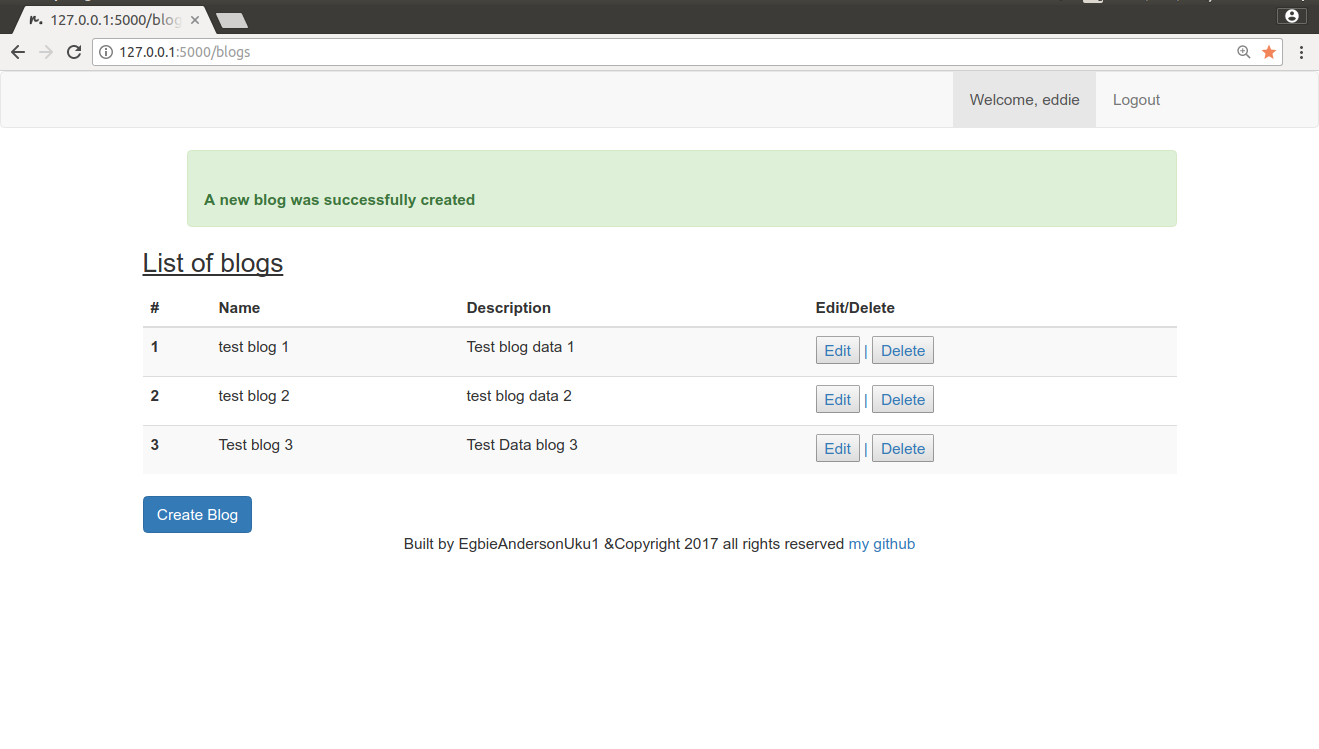
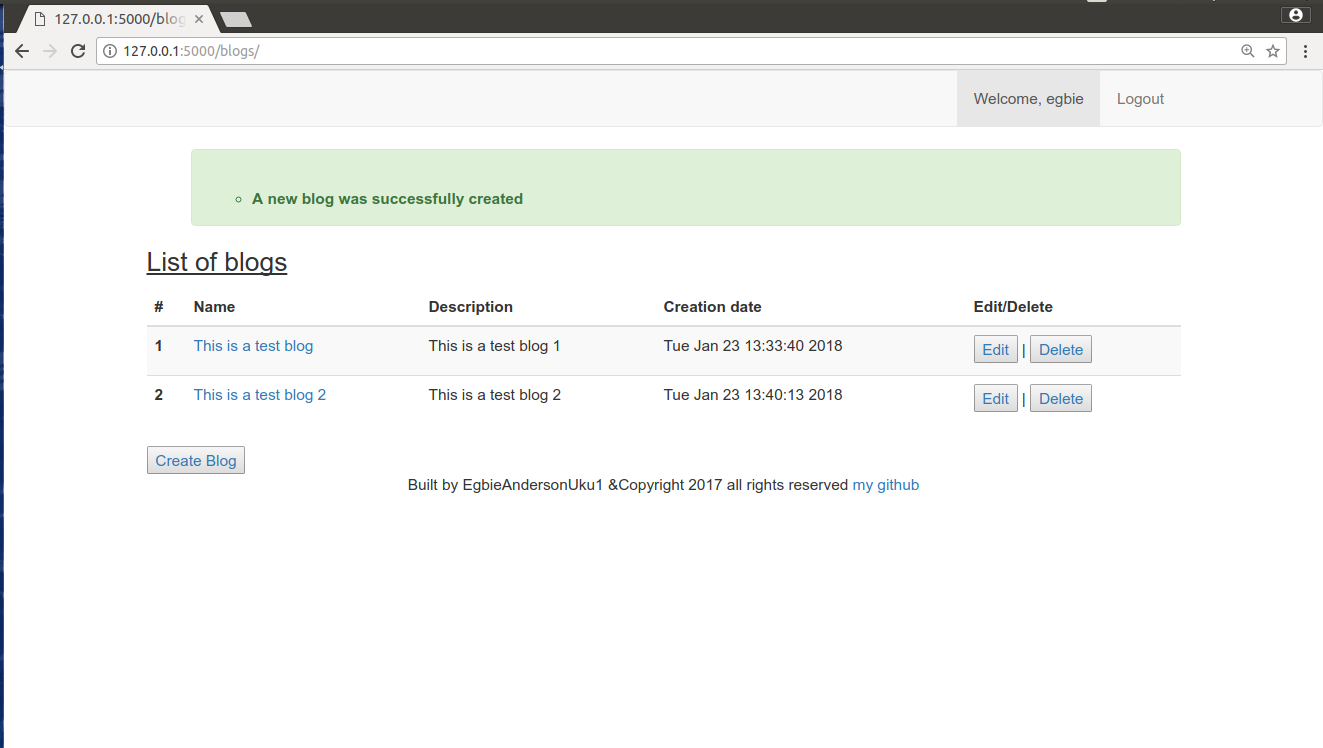
Refactored the form.py in registration and the views.py in the registration directory

diff --git a/src/templates/blogs/blogs.html b/src/templates/blogs/blogs.html
@@ -25,6 +25,7 @@
                     <th>#</th>
                     <th>Name</th>
                     <th>Description</th>
+                    <th>Creation date</th>
                     <th>Edit/Delete</th>
                 </tr>
                 </thead>
@@ -36,6 +37,7 @@
                     <th scope="row">{{ loop.index }}</th>
                     <td><a href="{{ url_for('blogs_app.my_blog', blog_id=blog.child_blog_id) }}">{{ blog.title | truncate(20) }}</a></td>
                     <td>{{ blog.description  | truncate(60) | safe }} </td>
+                    <td>{{ blog.date_created.strftime('%c') }} </td>
                     <td>
 
                         <a href="{{ url_for('blogs_app.blog_edit', blog_id=blog.child_blog_id) }}"><button>Edit</button></a>

diff --git a/src/templates/posts/posts.html b/src/templates/posts/posts.html
@@ -23,6 +23,7 @@
                     <th>Post Name</th>
                     <th>Description</th>
                     <th>Author</th>
+                    <th>Published date</th>
                     <th>Edit/Delete</th>
                 </tr>
                 </thead>
@@ -35,6 +36,7 @@
                     <td>{{ post.title | truncate(20) }}</td>
                     <td>{{ post.post |truncate(30) | safe }}</td>
                     <td>{{ post.author.title() | truncate(10) }}</td>
+                    <td>{{ post.publish_date.strftime('%c') }}</td>
                     <td>
 
                         <a href="#">

diff --git a/src/users/blogs/models.py b/src/users/blogs/models.py
@@ -2,6 +2,7 @@ from users.utils.generator.id_generator import gen_id
 from users.posts.models import Post
 from users.drafts.model import Draft
 from users.records.record import Record
+from users.utils.generator.date_generator import time_now
 
 
 class ParentBlog(object):
@@ -26,13 +27,15 @@ class ParentBlog(object):
             Returns a blog object
         """
         child_blog_id = gen_id()
-        blog_data = self._to_json(blog_form, child_blog_id)
+        date_created = time_now()
+        blog_data = self._to_json(blog_form, child_blog_id, date_created)
 
         if not Record.save(blog_data):
            raise Exception('Error, The blog data was not saved on the database.')
+
         return _ChildBlog(self._user_id, self._blog_id, child_blog_id, self._post_id,
                           blog_form.title, blog_form.description, _id=None,
-                          blog_live=True)
+                          blog_live=True, date_created=date_created)
 
     def find_child_blog(self, child_blog_id):
         """Takes a child blog id and if found returns that blog as an object"""
@@ -57,7 +60,7 @@ class ParentBlog(object):
         """"""
         Record.Update.update(field_name='child_blog_id', field_id=blog_id, data=data)
 
-    def _to_json(self, blog_form, child_blog_id):
+    def _to_json(self, blog_form, child_blog_id, date_created):
         """"""
         return {
             "user_id": self._user_id,
@@ -66,7 +69,8 @@ class ParentBlog(object):
             "child_blog_id": child_blog_id,
             "title": blog_form.title.data,
             "description": blog_form.description.data,
-            "blog_live": True
+            "blog_live": True,
+            "date_created": date_created
         }
 
 
@@ -74,12 +78,13 @@ class _ChildBlog(object):
     """The Child blog is a child of the Parent blog and should not be called directly"""
 
     def __init__(self, user_id, parent_blog_id, child_blog_id, post_id,
-                  title, description, _id, blog_live):
+                  title, description, _id, blog_live, date_created):
 
         self.child_blog_id = child_blog_id
         self.post_id = post_id
         self.title = title
         self.description = description
+        self.date_created = date_created
         self._id = _id
         self._user_id = user_id
         self._blog_live = blog_live

diff --git a/src/users/users/users.py b/src/users/users/users.py
@@ -17,8 +17,8 @@ class User(object):
         self._id = gen_id() if _id is None else _id
         self.parent_blog_id = gen_id() if parent_blog_id is None else parent_blog_id
         self.post_id = gen_id() if post_id is None else post_id
-        self.username = username
-        self.email = email
+        self.username = username.lower()
+        self.email = email.lower()
         self.password = password
         self.account_confirmed = account_confirmed
         self.configuration_codes = configuration_codes
@@ -63,9 +63,9 @@ class User(object):
             "_id": self._id,
             "parent_blog_id": self.parent_blog_id,
             "post_id": self.post_id,
-            "username": self.username.lower(),
+            "username": self.username,
             "password": self.password,
-            "email": self.email.lower(),
+            "email": self.email,
             "configuration_codes": self.configuration_codes,
             "account_confirmed": self.account_confirmed
         }
